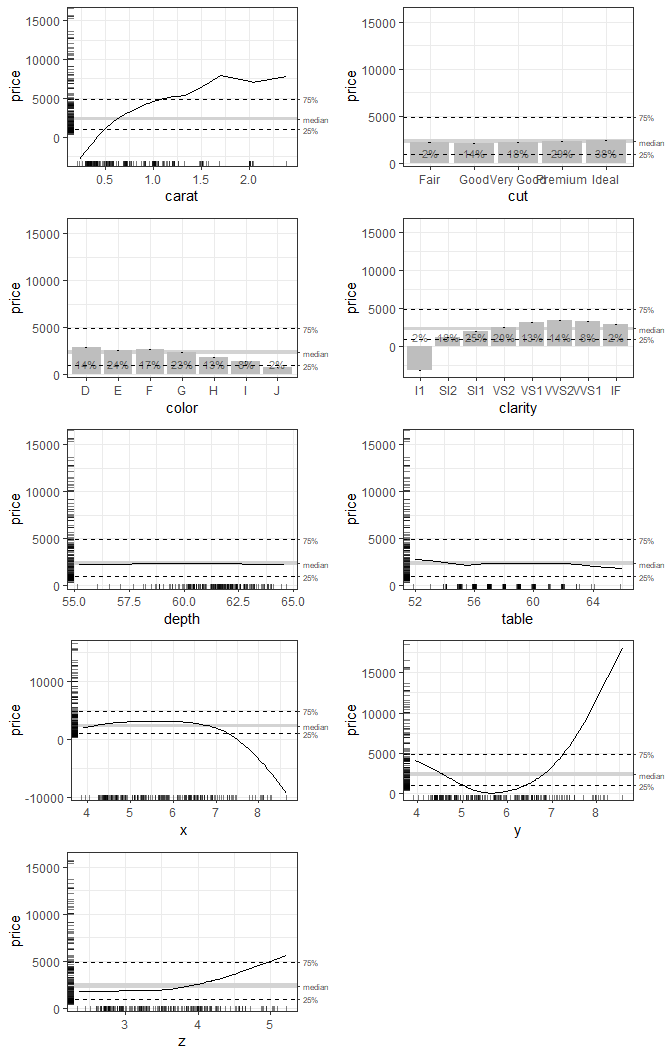
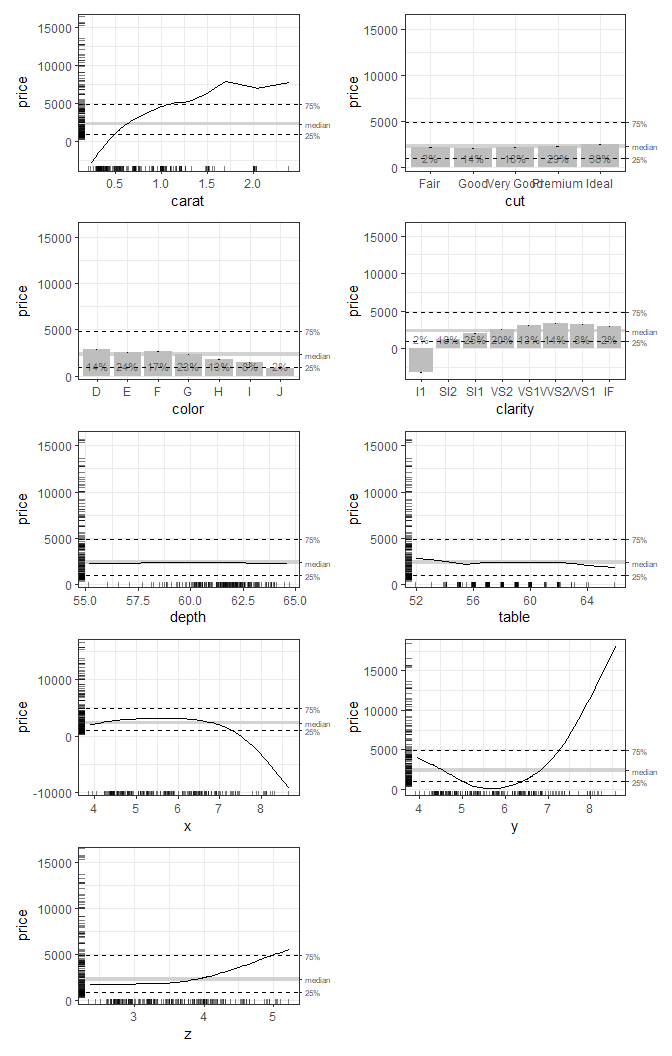
Replaced gridextra with patchwork. Relegated ggplot2 from Depends to Import.

diff --git a/README.md b/README.md
@@ -107,12 +107,10 @@ the `ggplot` plot objects.
 
 ``` r
 library(ale)
-#> Loading required package: ggplot2
 
-# Sample 1000 rows from the diamonds dataset (for a simple example).
-# diamonds is included with ggplot2, which is imported by the ale package.
+# Sample 1000 rows from the ggplot2::diamonds dataset (for a simple example).
 set.seed(0)
-diamonds_sample <- diamonds[sample(nrow(diamonds), 1000), ]
+diamonds_sample <- ggplot2::diamonds[sample(nrow(ggplot2::diamonds), 1000), ]
 
 # Split the dataset into training and test sets
 # https://stackoverflow.com/a/54892459/2449926
@@ -132,13 +130,15 @@ gam_diamonds <- mgcv::gam(
   data = diamonds_train
 )
 
-# Create ALE data and plot it
+# Create ALE data
 ale_gam_diamonds <- ale(
   diamonds_test, gam_diamonds,
   model_packages = 'mgcv'  # required for parallel processing
 )
 
-gridExtra::grid.arrange(grobs = ale_gam_diamonds$plots, ncol = 2)
+# Plot the ALE data
+ale_gam_diamonds$plots |> 
+  patchwork::wrap_plots(ncol = 2)
 ```
 
 <img src="man/figures/README-gam-and-ale-1.png" width="100%" />
@@ -153,5 +153,5 @@ tag](https://stackoverflow.com/questions/tagged/ale). I will follow that
 tag, so I will try my best to respond quickly. However, be sure to
 always include a minimal reproducible example for your usage requests.
 If you cannot include your own dataset in the question, then use one of
-the built-in datasets to frame your help request: `var_cars`, `census`,
-or `diamonds`.
+the built-in datasets to frame your help request: `var_cars` or
+`census`. You may also use `ggplot2::diamonds` for a larger sample.
